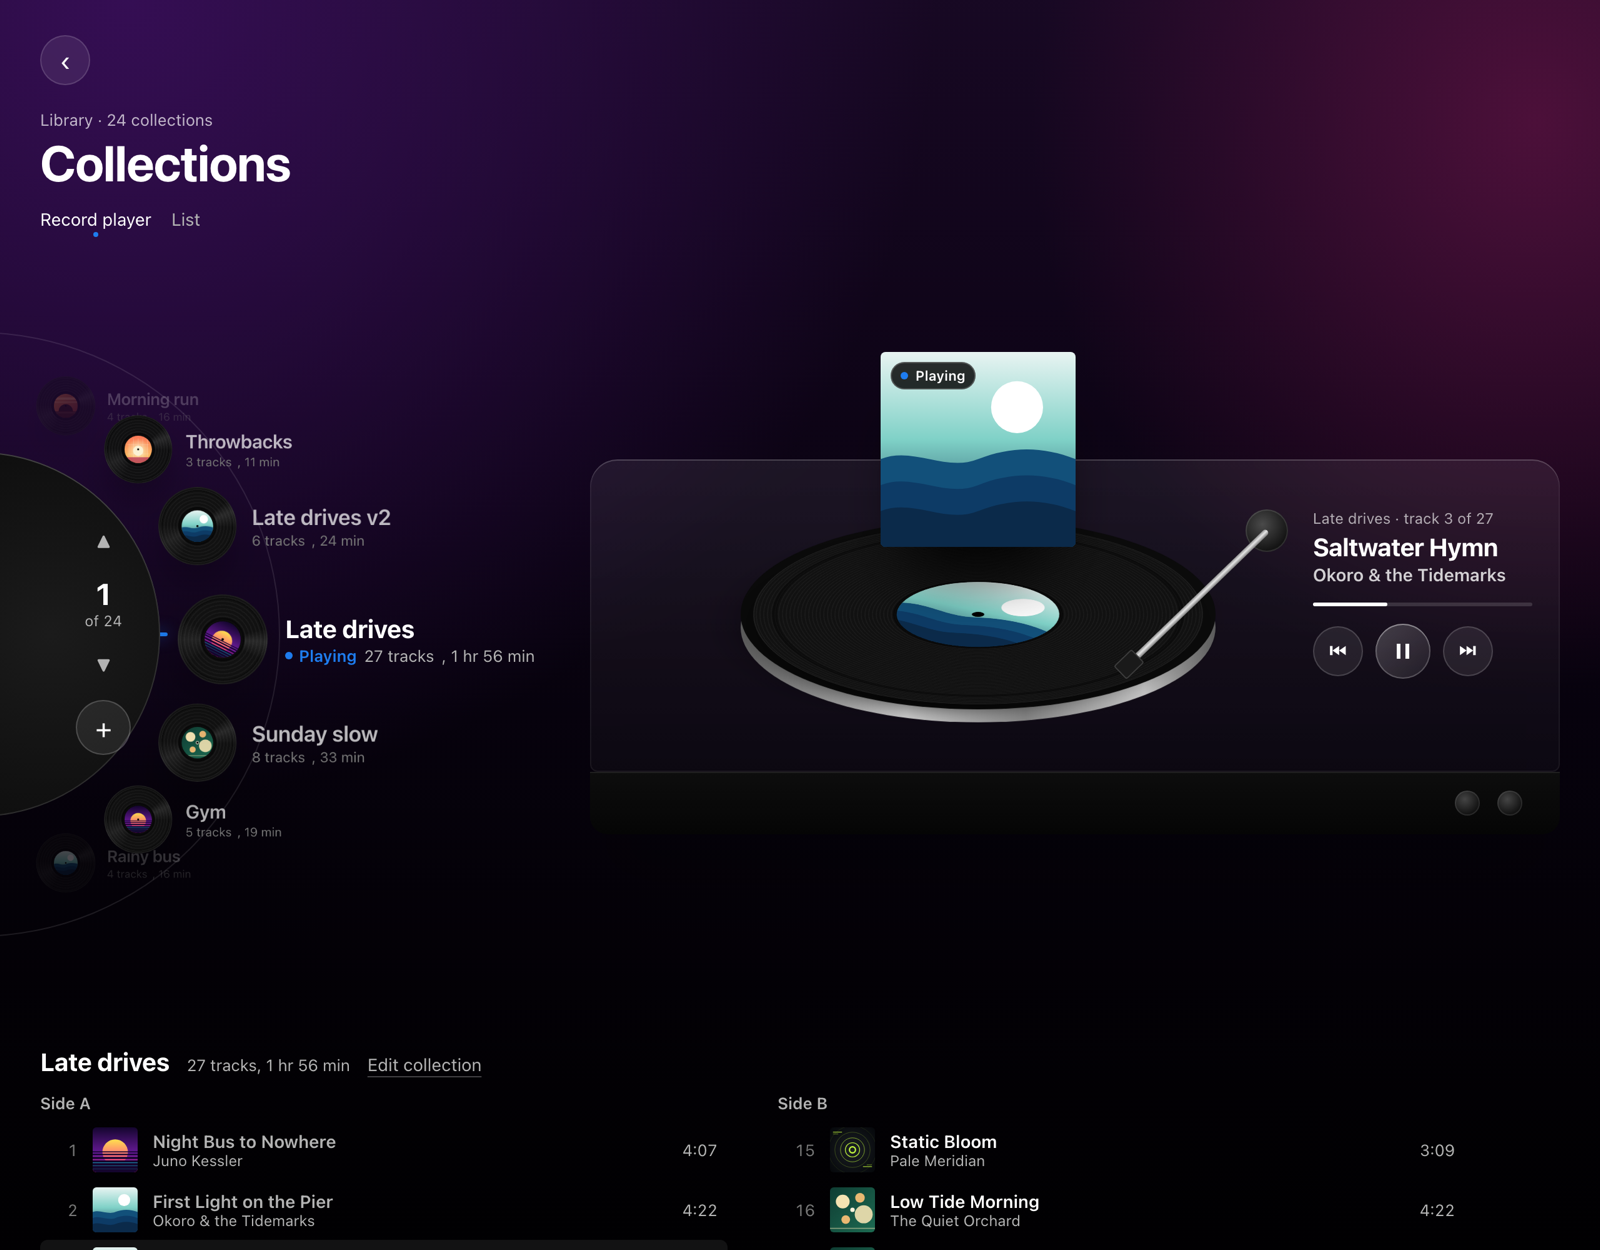
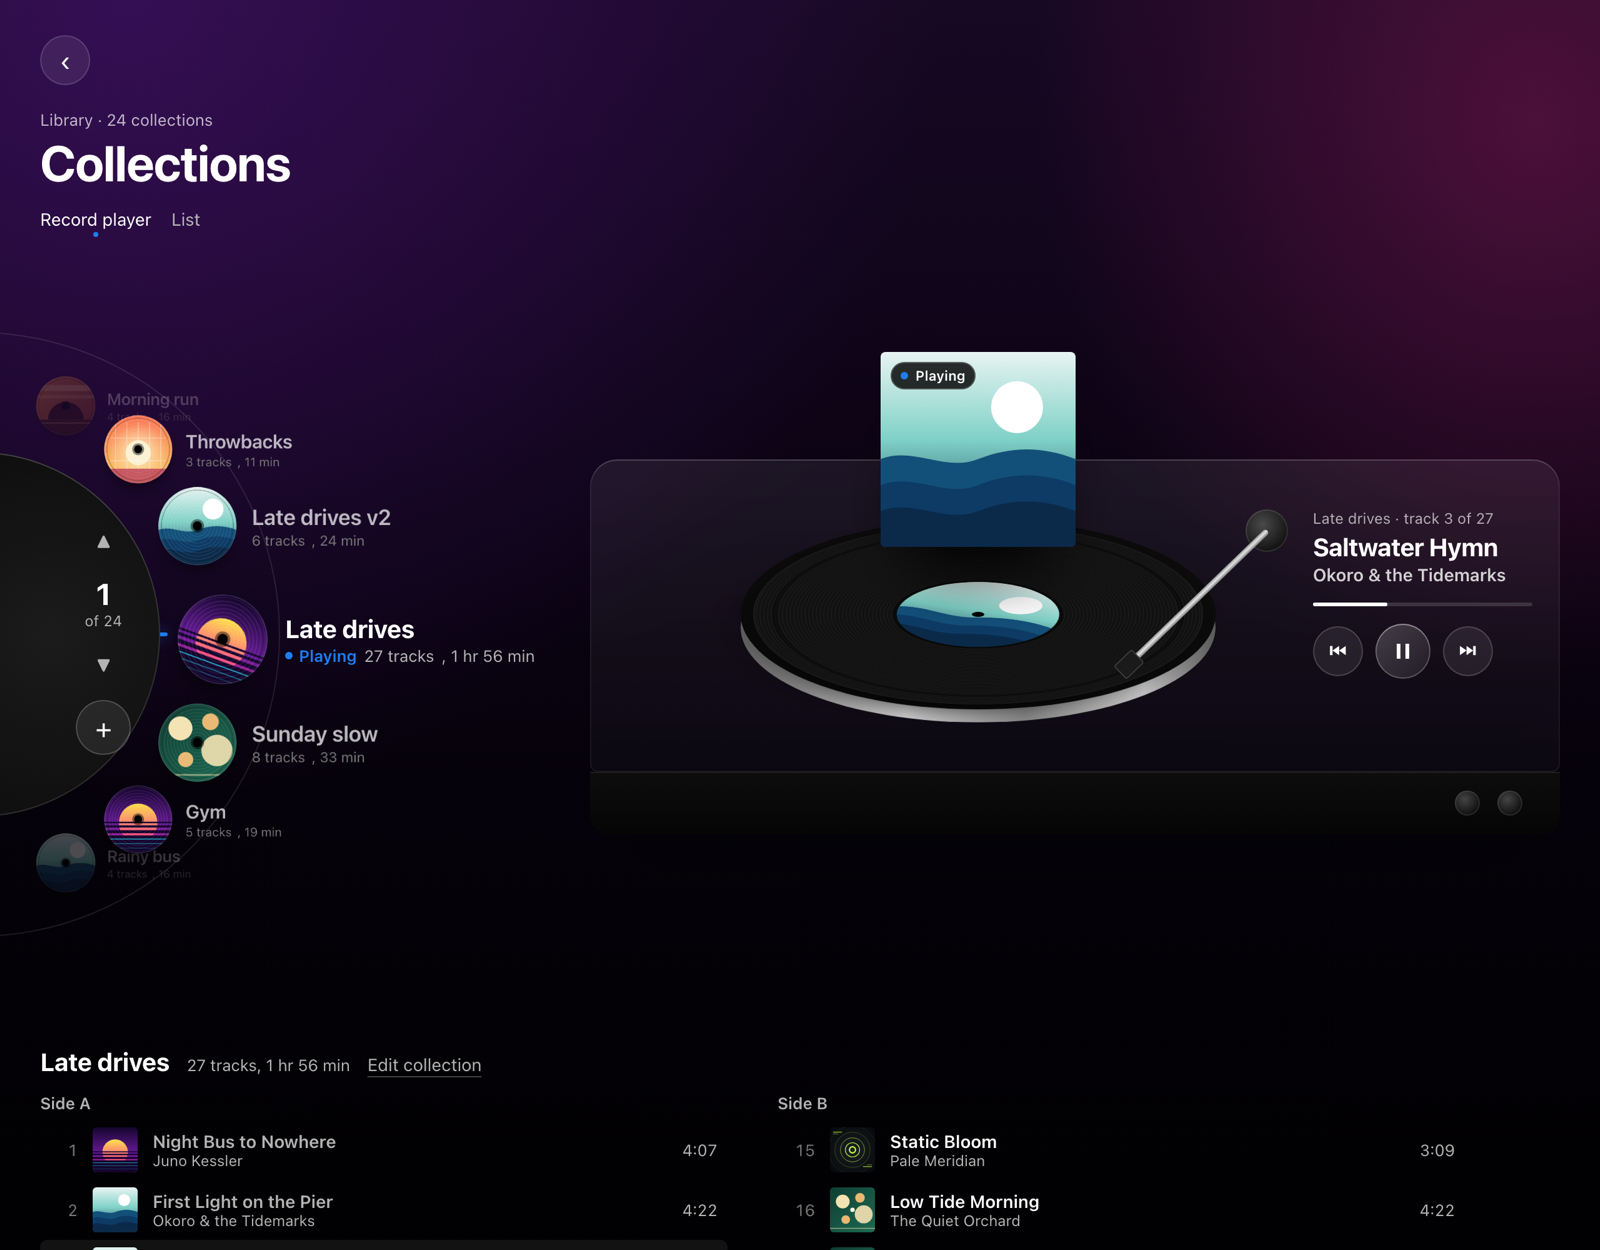
Plan #339: the wheel's small records are picture discs
Owner, 23 Oct: the rows' records show the collection's actual cover edge
to edge; the big spinning record stays as it is.

Changed region(s): [[0.0, 0.2808, 0.1875, 0.7176], [0.625, 0.468, 0.6562, 0.4992]]

diff --git a/docs/plans/339-collections.md b/docs/plans/339-collections.md
@@ -10,7 +10,7 @@
   adds an optional key to the record.
 - **The look is a record player** (chosen from the variants below):
   - The Collections page has a **record wheel** on the left: each collection is a row (a small record with its cover as the
-    label, then the name and track count) riding the right half of a dial whose hub sits on the window's left edge. The front
+    label, then the name and track count; later made a picture disc, see "The look") riding the right half of a dial whose hub sits on the window's left edge. The front
     row is biggest and points at the turntable; the others shrink and fade as they go round. It scrolls, drags and swipes,
     snaps to each row, and turns endlessly, so 24 collections or 200 feel the same. No full covers on the wheel: the cover
     shows once, over the turntable (owner, 23 Oct).
@@ -178,8 +178,9 @@ Recorded on #339 (comment of 23 Oct).
   - `mac-record-player.png` (on the playing collection), `mac-record-player-browsing.png` (looking at another while one plays),
     `phone-record-player.png` and `phone-record-player-browsing.png` are the chosen direction.
   - `*-spines`, `*-crate`, `*-ledge`, `*-turntable` and `*-plain` are the variants explored on the way, kept for the record.
-- **The wheel:** rows on the right half of a dial whose hub sits on the left edge. A row is a small record (72 on the Mac, 46
-  on the iPhone) with the collection's first cover as its label, then the name (20 / 15, white) and "27 tracks, 1 hr 56 min"
+- **The wheel:** rows on the right half of a dial whose hub sits on the left edge. A row is a small picture disc (72 on the Mac,
+  52 on the iPhone): the collection's first cover printed edge to edge, faint grooves over it and a centre hole (owner, 23 Oct;
+  only these small records, the big spinning record keeps black vinyl with the track's cover as its label), then the name (20 / 15, white) and "27 tracks, 1 hr 56 min"
   on the dark page, never over artwork. Each step round is 0.87 of the last. Rows follow the dial's curve but stay level,
   reading left to right (owner, 23 Oct), and fade past about 50° from the front, so about seven show at once. The playing collection's record turns and its row says "Playing" or
   "Paused" in the accent colour. The hub shows "5 of 24", ▲ and ▼ (Mac) and a + for a new collection, all 44 buttons. A thin
